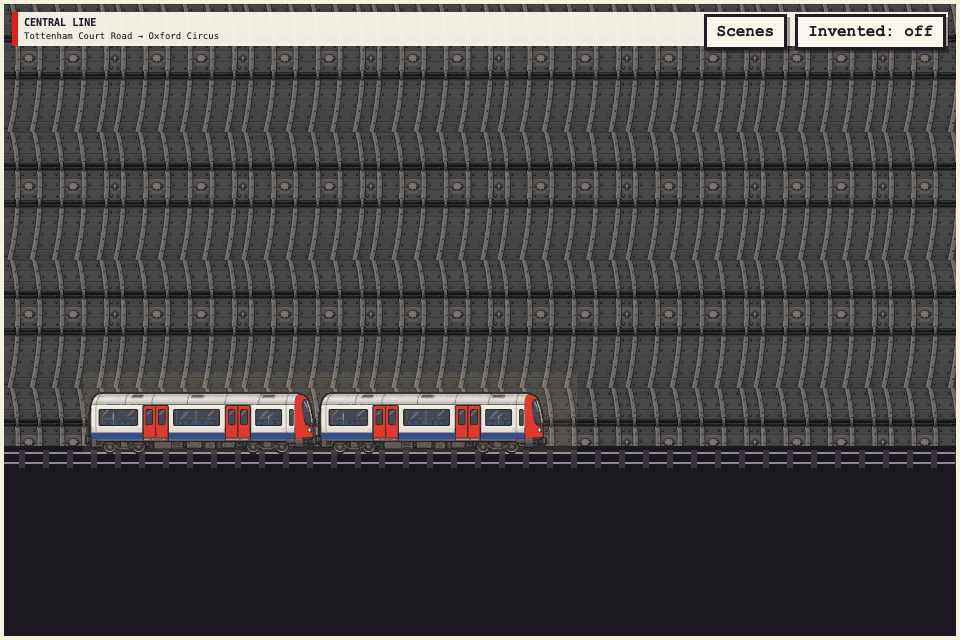
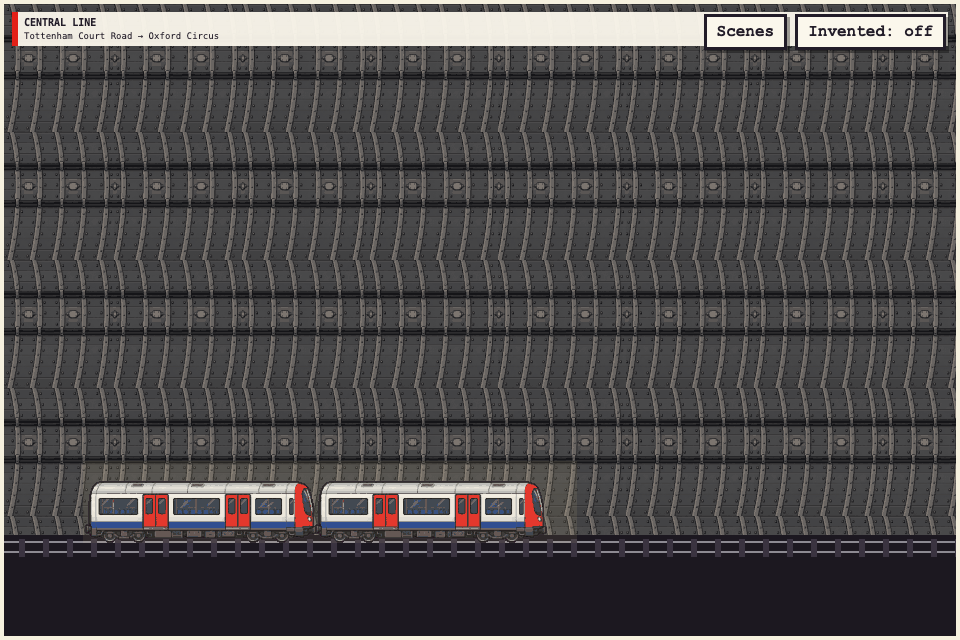
Demo: distant hazy skyline behind a continuous terrace, sky gradient, QA fixes
- skyline washed out, smaller and raised so only roofs and spires show;
  a seamless terrace strip fills the street-level gaps between buildings
- St Giles traffic no longer drives through the bus; tube rails lower;
  no A prompt while seated; deckchair seating; parent NPC off the bench

Changed region(s): [[0.0, 0.5938, 1.0, 0.875]]

diff --git a/public/london-25d/engine/engine.js b/public/london-25d/engine/engine.js
@@ -11,7 +11,7 @@
   const HIT = { w: 14, h: 6 };
   const SHARED = ["shawn", "bus", "tube_train", "nelson", "skyline", "national_gallery", "tube_tunnel",
     "tile_paving", "tile_asphalt", "tile_kerb", "shop_corner", "shop_cafe", "shop_laundry", "tree"];
-  const OPTIONAL = ["actions", "fx_steam", "fx_sparkle", "fx_heart", "fx_flash"]; // loaded if present
+  const OPTIONAL = ["actions", "fx_steam", "fx_sparkle", "fx_heart", "fx_flash", "skyline_far", "terrace_strip"]; // loaded if present
   const NPC_VEHICLES = ["black_cab", "delivery_bike"];
   const SITTABLE = ["bench", "deckchair", "chair"];
   // player action strips in shared/assets/actions.png (4 cols x 6 rows of 32x48)
@@ -165,7 +165,13 @@
       // repeatX: tile the backdrop across the whole map width (city skylines)
       backdrop(name, x, y, o = {}) { w.backdrops.push({ im: img[name], x, y, p: o.parallax ?? 0.3, invented: !!o.invented, repeatX: !!o.repeatX }); },
       // a hazy row of city rooftops standing on the line y, across the whole map
-      skyline(y, o = {}) { w.backdrops.push({ im: img.skyline, x: 0, y: y - img.skyline.height, p: o.parallax ?? 0.15, invented: !!o.invented, repeatX: true }); },
+      // depth: a hazy far skyline (only roofs and spires show) behind a continuous terrace that meets the ground at y
+      skyline(y, o = {}) {
+        const far = img.skyline_far || img.skyline, row = img.terrace_strip;
+        const roof = row ? y - row.height + 24 : y;
+        w.backdrops.push({ im: far, x: 0, y: roof + 40 - far.height, p: o.parallax ?? 0.3, invented: !!o.invented, repeatX: true });
+        if (row) w.backdrops.push({ im: row, x: 0, y: y - row.height, p: 0, invented: !!o.invented, repeatX: true, ground: true });
+      },
     };
     def.build(api);
     // ground
@@ -324,7 +330,8 @@
     else {
       // benches and deckchairs seat the player, with or without a line to read
       const seat = nearbySeat();
-      if (seat) startAction("sit", { seat: { x: seat.x + seat.w / 2, y: seat.y + 2 } });
+      // a deckchair's seat is low and set back: sit into it rather than in front of it
+      if (seat) startAction("sit", { seat: { x: seat.x + seat.w / 2, y: seat.name === "deckchair" ? seat.y - 6 : seat.y + 2 } });
     }
     if (!s) return;
     if (s.text) {
@@ -402,7 +409,10 @@
       // Whitehall → Trafalgar Square → Charing Cross Road: layered street scrolling past the bus
       const kerbY = Math.round(h * 0.66), baseY = kerbY - 2 * T, off = tr.t * 2.2;
       ctx.fillStyle = "#a9d4f5"; ctx.fillRect(0, 0, w, h);
-      strip(I.skyline, off * 0.25, baseY - I.skyline.height - 6, I.skyline.width - 1);
+      const far = I.skyline_far || I.skyline, terr = I.terrace_strip;
+      const roof = terr ? baseY + 4 - terr.height + 24 : baseY;
+      strip(far, off * 0.3, roof + 40 - far.height, far.width - 1);
+      if (terr) strip(terr, off * 0.85, baseY + 4 - terr.height, terr.width - 1);
       for (let x = -((off % T) + T) % T; x < w; x += T) {
         ctx.drawImage(I.tile_paving, x, baseY); ctx.drawImage(I.tile_paving, x, baseY + T);
         ctx.drawImage(I.tile_kerb, x, kerbY);
@@ -427,7 +437,7 @@
       // tube tunnel: cast-iron rings rush past, train runs on the track
       const off = tr.t * 7;
       for (let y = 0; y < h; y += I.tube_tunnel.height) strip(I.tube_tunnel, off, y);
-      const railY = Math.round(h * 0.7);
+      const railY = Math.round(h * 0.84);
       ctx.fillStyle = "#1c1820"; ctx.fillRect(0, railY, w, h - railY);
       ctx.fillStyle = "#8d8a92"; ctx.fillRect(0, railY + 6, w, 2); ctx.fillRect(0, railY + 16, w, 2);
       ctx.fillStyle = "#3a3340";
@@ -513,6 +523,10 @@
 
   // ---------- draw ----------
   const cam = { x: 0, y: 0 };
+  function shade(hex, k) {
+    const n = parseInt(hex.slice(1), 16), f = (v) => Math.max(0, Math.min(255, Math.round(v * (1 + k))));
+    return `rgb(${f(n >> 16)},${f((n >> 8) & 255)},${f(n & 255)})`;
+  }
   function drawShadow(cx, by, w) {
     ctx.fillStyle = "rgba(20, 16, 40, 0.24)";
     ctx.beginPath();
@@ -532,7 +546,11 @@
     cam.x = Math.round(world.W <= viewW ? (world.W - viewW) / 2 : Math.max(0, Math.min(world.W - viewW, player.x - viewW / 2)));
     cam.y = Math.round(world.H <= viewH ? (world.H - viewH) / 2 : Math.max(0, Math.min(world.H - viewH, player.y - 24 - viewH / 2)));
     ctx.setTransform(1, 0, 0, 1, 0, 0);
-    ctx.fillStyle = d.sky || "#14121a";
+    // soft vertical sky gradient: deeper blue at the top of the world, the scene's sky colour at the horizon
+    const sky = ctx.createLinearGradient(0, -cam.y, 0, -cam.y + world.H * 0.45);
+    sky.addColorStop(0, d.skyTop || shade(d.sky || "#14121a", -0.18));
+    sky.addColorStop(1, d.sky || "#14121a");
+    ctx.fillStyle = sky;
     ctx.fillRect(0, 0, viewW, viewH);
     for (const b of world.backdrops) {
       const bx = Math.round(b.x - cam.x * (1 - b.p)), by = Math.round(b.y - cam.y);
@@ -582,7 +600,7 @@
       ctx.fillStyle = "#221c28"; ctx.fillText(e.label, bx + 4, by + 9);
     }
 
-    const s = !dialogue && nearbyTalk();
+    const s = !dialogue && !player.act && nearbyTalk();
     if (s) {
       const bx = Math.round(player.x) - 6, by = Math.round(player.y) - FH - 8;
       ctx.fillStyle = "#221c28"; ctx.fillRect(bx - 1, by - 1, 14, 12);

diff --git a/public/london-25d/scenes/kanada-ya/scene.js b/public/london-25d/scenes/kanada-ya/scene.js
@@ -120,8 +120,9 @@
       w.npc("npc_student", { path: [[W - 140, northY + 18], [180, northY + 18]], speed: 0.5, delay: 90 });
       w.npc("npc_tourist", { path: [[W - 60, southY], [260, southY]], speed: 0.45, pause: 90, talk: "A tourist with a map: \"Is this the way to Denmark Street? The guitar shops?\"" });
       w.npc("npc_busker", { path: [[W - 210, southY + 6]], still: true, face: "down", talk: "A busker tunes a guitar. Denmark Street, round the corner, was London's Tin Pan Alley." });
-      w.traffic("black_cab", { y: (ROW_KERB_TOP + 1) * T + 24, speed: 1.5, gap: 240 });
-      w.traffic("delivery_bike", { y: (ROW_KERB_TOP + 2) * T + 18, speed: -1.1, flip: true, gap: 360, offset: 400 });
+      // far lane runs left; the near lane is the bus's, so the bike follows the bus at the same speed and period
+      w.traffic("black_cab", { y: (ROW_KERB_TOP + 1) * T + 24, speed: -1.5, flip: true, gap: 240 });
+      w.traffic("delivery_bike", { y: (ROW_KERB_TOP + 2) * T + 20, speed: 1.6, gap: 737, offset: -400 });
 
       // buses use the street (route numbers on the shared sprite aren't this street's)
       w.mover("bus", { x: -260, y: (ROW_KERB_TOP + 2) * T + 22, invented: true, update(m) {

diff --git a/public/london-25d/scenes/regents-park/scene.js b/public/london-25d/scenes/regents-park/scene.js
@@ -164,7 +164,7 @@
         talk: "A jogger, not stopping: \"Morning! Well, afternoon. Three laps to go!\"" });
       w.npc("npc_dogwalker", { path: [[(LAKE_C + 2) * T, py], [(COLS - 2) * T, py]], speed: 0.5, pause: 60,
         talk: "A dog walker: \"Dogs have to stay on leads in the rose garden. He knows.\"" });
-      w.npc("npc_parent", { path: [[(LAKE_C + 3) * T, py + 14], [(WALK_C0 - 1) * T, py + 14]], speed: 0.4, delay: 200, pause: 90 });
+      w.npc("npc_parent", { path: [[(LAKE_C + 3) * T, py + 26], [(WALK_C0 - 1) * T, py + 26]], speed: 0.4, delay: 200, pause: 90 });
       w.npc("npc_elder", { path: [[midX + 30, 20 * T], [midX + 30, 26 * T]], speed: 0.28, pause: 150,
         talk: "An older gentleman: \"I've walked these roses every summer for forty years.\"" });
       w.npc("npc_tourist", { path: [[midX + 34, PLAZA.r1 * T + 30]], still: true, face: "up" });

diff --git a/public/london-25d/shared/prompts.md b/public/london-25d/shared/prompts.md
@@ -14,7 +14,7 @@ Tile ending:
 
 > This is a single seamless repeating ground texture tile viewed straight down (orthographic, no perspective), filling the entire square image edge to edge, designed on a 16x16 grid of big pixels so it tiles seamlessly on all four sides. No border, no objects, no text. Square 1024x1024.
 
-## Calls (15)
+## Calls (16)
 
 ### bench (2026-11-01 14-38-32)
 
@@ -104,6 +104,12 @@ Original pixel-art game asset for a 2010s handheld (DS-era) style top-down RPG. 
 
 ```text
 Original pixel-art game asset for a 2010s handheld (DS-era) style top-down RPG. Steep top-down 3/4 view (camera high, looking down at about 60 degrees, so we see the front face and a sliver of the top). Clean crisp chunky square pixels, flat colour shading with 2-3 tones per material, absolutely no dithering, no noise, no gradients, no anti-aliasing blur. Dark 1px outlines around shapes. Bright cheerful palette (teal-green grass, sandy paving, warm red-brown bricks). Light comes from the top-left. Entirely original design, not copied from or imitating any existing game, character or logo. Using the attached sprite sheet as the exact character reference (same chibi proportions, same face, hair, glasses, outfit, colours and pixel style), draw the same character. Front view, full body, standing, big grin. 3 frames of a waving animation with one hand raised above his shoulder: 1) hand tilted left, 2) hand upright, 3) hand tilted right. Put the frames in a single horizontal row, evenly spaced and not touching, each figure the same size as one frame of the reference sheet. Landscape 1536x1024. Flat solid pure magenta (#FF00FF) background, no shadows, no text, no grid lines, no table, no props other than those described.
+```
+
+### terrace_strip (2026-11-01 15-39-14)
+
+```text
+Original pixel-art game asset for a 2010s handheld (DS-era) style top-down RPG. Steep top-down 3/4 view (camera high, looking down at about 60 degrees, so we see the front face and a sliver of the top). Clean crisp chunky square pixels, flat colour shading with 2-3 tones per material, absolutely no dithering, no noise, no gradients, no anti-aliasing blur. Dark 1px outlines around shapes. Bright cheerful palette (teal-green grass, sandy paving, warm red-brown bricks). Light comes from the top-left. Entirely original design, not copied from or imitating any existing game, character or logo. A continuous row of joined London terraced houses seen from the front and slightly above, filling the full width with no gaps between them: three storeys each, alternating red-brown brick and cream stucco facades, white sash windows, black front doors with fanlights, slate roofs with chimney pots, all standing on one flat horizontal ground line. The row repeats seamlessly left-right, so the left and right edges match. Very wide landscape 1536x1024. Show ONE isolated object, centred, whole object visible with margin around it, on a perfectly flat solid pure magenta (#FF00FF) background. No cast shadow on the ground, no ground plane, no scenery, no border, no extra text or labels.
 ```
 
 ## Notes
